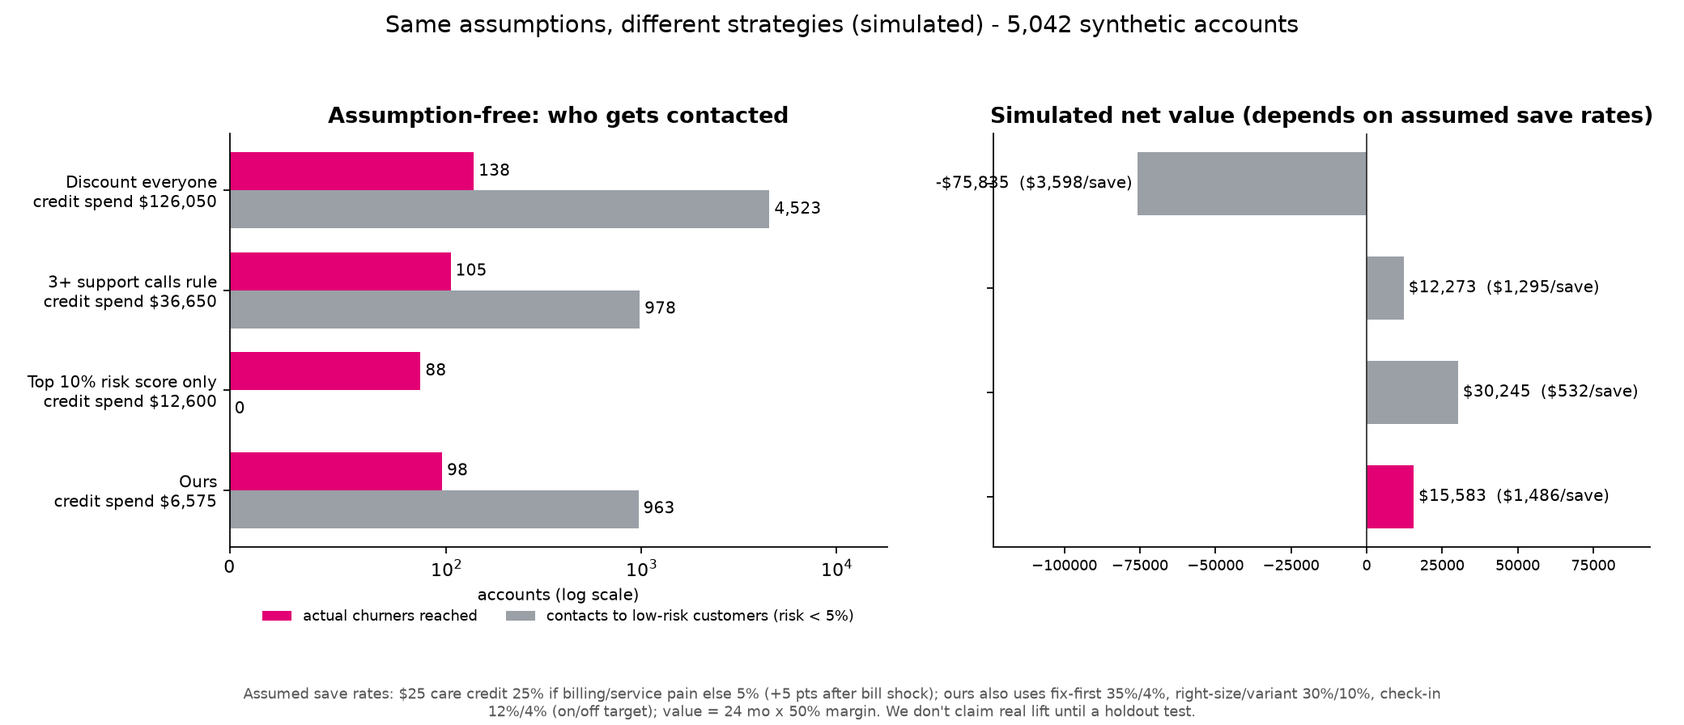
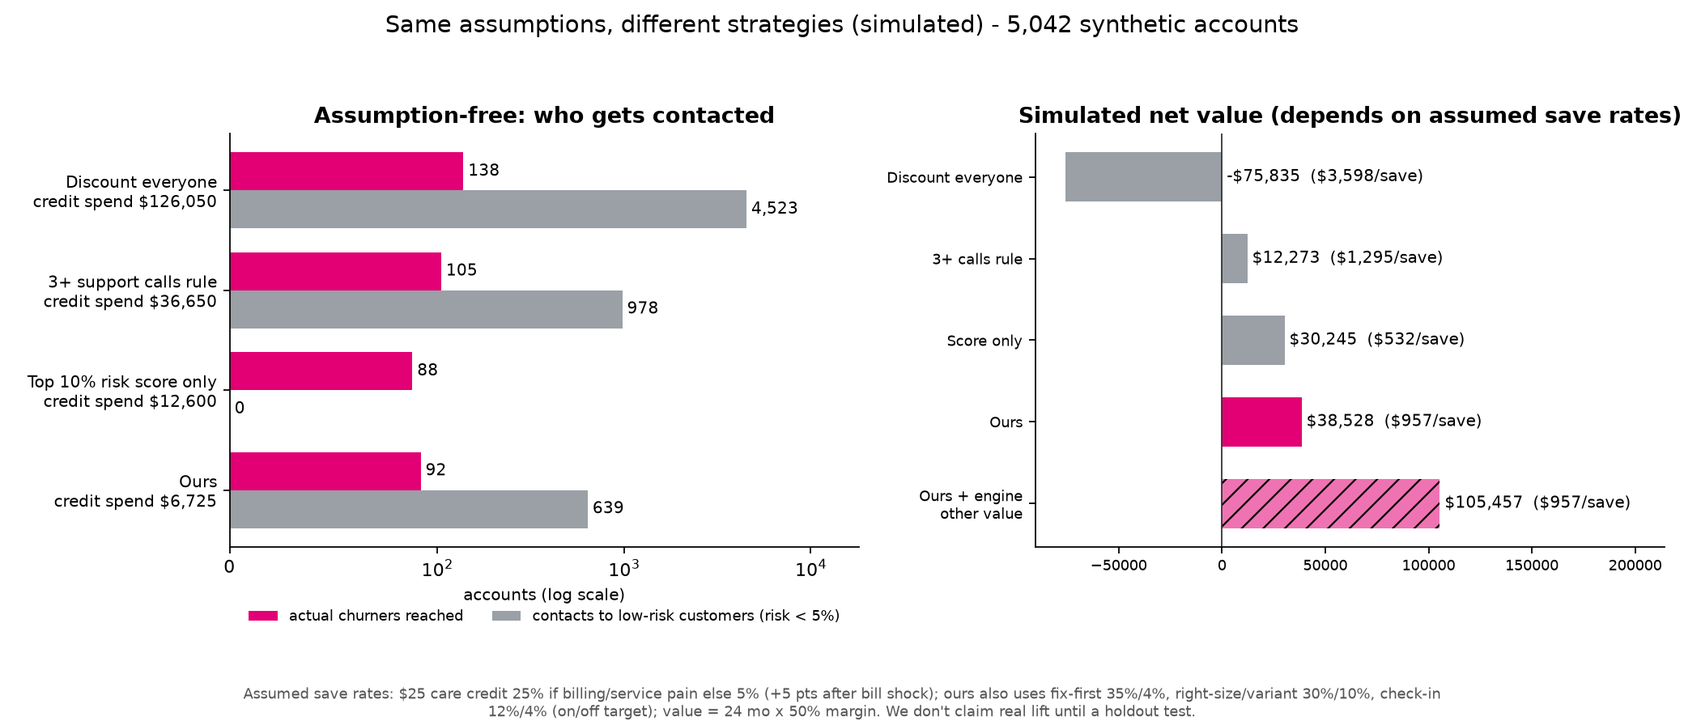
compare_strategies: input dir defaults to demo_data/ (same 7:59 run as demo_data/offers.csv; --input-dir / TM_OUT_DIR override) with mid-run-safe snapshot + mtime recorded; --save-scale and x1/x0.5/x0.25 sensitivity sweep (comparison_sensitivity.csv); 5b row incl. engine other value; regenerated dem

diff --git a/harness/compare_strategies.py b/harness/compare_strategies.py
@@ -35,22 +35,61 @@ import pandas as pd
 
 HERE = Path(__file__).resolve().parent
 ROOT = HERE.parent
-OUT = Path(os.environ.get("TM_OUT_DIR", HERE / "out"))
+OUT = HERE / "out"   # outputs (git-ignored); inputs come from IN_DIR
 DEMO = ROOT / "demo_data"
 sys.path.insert(0, str(HERE))
 
 NOTE = "SYNTHETIC/SIMULATED"
 
 
+IN_DIR: Path | None = None   # set in main(): --input-dir > TM_OUT_DIR > demo_data/ (if it has offers.csv) > harness/out
+SNAP: dict = {}              # offers/candidates snapshot paths + mtimes actually used
+
+
+def resolve_input_dir(cli: str | None) -> Path:
+    if cli:
+        return Path(cli).resolve()
+    if os.environ.get("TM_OUT_DIR"):
+        return Path(os.environ["TM_OUT_DIR"]).resolve()
+    if (DEMO / "offers.csv").exists():
+        return DEMO
+    return HERE / "out"
+
+
 def find(name: str) -> Path:
-    for d in (OUT, DEMO):
+    if name in SNAP:
+        return SNAP[name]["snapshot"]
+    dirs = [IN_DIR] if IN_DIR is not None else []
+    dirs += [d for d in (OUT, DEMO) if d not in dirs]
+    for d in dirs:
         for n in (name, name + ".gz"):
             if (d / n).exists():
                 return d / n
     raise FileNotFoundError(f"{name} not found in {OUT} or {DEMO}")
 
 
+def snapshot_offers():
+    """Copy offers.csv + offer_candidates.csv(.gz) from IN_DIR to a temp dir, refusing a pair that changed mid-copy,
+    so a concurrent tm-offers rerun can't mix runs. Records path + mtime for COMPARISON.md."""
+    import tempfile
+    tmp = Path(tempfile.mkdtemp(prefix="cmp_snap_"))
+    for name in ("offers.csv", "offer_candidates.csv"):
+        src = next((IN_DIR / n for n in (name, name + ".gz") if (IN_DIR / n).exists()), None)
+        if src is None:
+            raise FileNotFoundError(f"{name}(.gz) not in input dir {IN_DIR}")
+        m0 = src.stat().st_mtime
+        dst = tmp / src.name
+        shutil.copy2(src, dst)
+        if src.stat().st_mtime != m0:
+            raise RuntimeError(f"{src} changed while copying; re-run when tm-offers' write finishes")
+        SNAP[name] = {"source": src, "snapshot": dst, "mtime": m0}
+    a, b = SNAP["offers.csv"]["mtime"], SNAP["offer_candidates.csv"]["mtime"]
+    if abs(a - b) > 600:
+        print(f"WARNING: offers.csv and offer_candidates.csv mtimes differ by {abs(a-b)/60:.0f} min (different runs?)")
+
+
 def load_inputs():
+    snapshot_offers()
     offers = pd.read_csv(find("offers.csv"))
     cands = pd.read_csv(find("offer_candidates.csv"))
     feats = pd.read_csv(find("features.csv"))
@@ -114,7 +153,20 @@ def topk_capture(y, s, frac=0.10, seed=2026) -> float:
     return float(y[order[:k]].sum() / y.sum())
 
 
-def main():
+def main(argv=None):
+    import argparse
+    global IN_DIR
+    ap = argparse.ArgumentParser(description="Strategy comparison (SYNTHETIC)")
+    ap.add_argument("--input-dir", default=None, help="dir with offers.csv + offer_candidates.csv(.gz) and the other "
+                    "inputs (default: TM_OUT_DIR, else demo_data/ if it has offers.csv, else harness/out)")
+    ap.add_argument("--save-scale", type=float, default=1.0, help="multiply ALL save rates (every strategy) by this "
+                    "factor for the main table (default 1.0)")
+    ap.add_argument("--sweep", default="1.0,0.5,0.25", help="save-rate scales for the sensitivity table")
+    args = ap.parse_args(argv)
+    IN_DIR = resolve_input_dir(args.input_dir)
+    scale = args.save_scale
+    sweep = [float(x) for x in args.sweep.split(",") if x.strip()]
+    print(f"input dir: {IN_DIR}")
     import offers as eng_cfg_mod  # only to read CONFIG; same assumptions as the engine
     C = eng_cfg_mod.CONFIG
     offers, cands, feats, labels, oof = load_inputs()
@@ -180,20 +232,39 @@ def main():
                      - (contact & (base.action_code == "care_credit_fix_first")).sum() * C["FIX_FIRST_CALLBACK_COST"],
                      expected_saves_true_p=(ptrue * sr)[contact].sum(),
                      saved_margin_true_p_usd=(ptrue * sr * val)[contact].sum(), other_ev_usd=other))
-    t = pd.DataFrame(rows)
-    t["cost_per_save_usd"] = np.where(t.expected_saves > 0, t.offer_cost_usd / t.expected_saves.replace(0, np.nan), np.nan)
-    t["net_value_usd"] = t.saved_margin_usd - t.offer_cost_usd - t.contact_cost_usd
-    t["net_value_true_p_usd"] = t.saved_margin_true_p_usd - t.offer_cost_usd - t.contact_cost_usd
-    t["cost_per_save_true_p_usd"] = np.where(t.expected_saves_true_p > 0,
-                                             t.offer_cost_usd / t.expected_saves_true_p.replace(0, np.nan), np.nan)
-    t["contacts_to_low_risk_share"] = np.where(t.contacted > 0, t.contacts_to_low_risk / t.contacted.replace(0, np.nan), np.nan)
-    t["data_note"] = NOTE
-    t["churners_reached_share"] = t.churners_reached / max(1, int(base.churn_90d.fillna(0).sum()))
-    cols = ["strategy", "description", "contacted", "contacts_to_low_risk", "contacts_to_low_risk_share", "credit_spend_usd",
-            "churners_reached", "churners_reached_share", "expected_saves", "offer_cost_usd", "cost_per_save_usd",
-            "contact_cost_usd", "saved_margin_usd", "net_value_usd",
-            "expected_saves_true_p", "cost_per_save_true_p_usd", "net_value_true_p_usd", "other_ev_usd", "data_note"]
-    t = t[cols].round(2)
+    o5 = dict(rows[-1]); o5.update(strategy="5b. Ours (incl. engine other value)",
+                                   description="same picks as 5; net value ALSO counts the engine's own upsell margin, "
+                                               "lock-in and customer-benefit credit (other_ev_usd)", include_other=True)
+    rows.append(o5)
+    raw = pd.DataFrame(rows)
+    raw["include_other"] = raw.get("include_other", False)
+    raw["include_other"] = raw["include_other"].fillna(False).astype(bool)
+    n_churn_all = max(1, int(base.churn_90d.fillna(0).sum()))
+
+    def finalize(raw: pd.DataFrame, sc: float) -> pd.DataFrame:
+        """Scale ALL save rates by sc (saves and saved margin are linear in save rate; costs are not)."""
+        t = raw.copy()
+        for c in ("expected_saves", "saved_margin_usd", "expected_saves_true_p", "saved_margin_true_p_usd"):
+            t[c] = t[c] * sc
+        oth = np.where(t.include_other, t.other_ev_usd, 0.0)
+        t["save_scale"] = sc
+        t["cost_per_save_usd"] = t.offer_cost_usd / t.expected_saves.replace(0, np.nan)
+        t["net_value_usd"] = t.saved_margin_usd - t.offer_cost_usd - t.contact_cost_usd + oth
+        t["net_value_true_p_usd"] = t.saved_margin_true_p_usd - t.offer_cost_usd - t.contact_cost_usd + oth
+        t["cost_per_save_true_p_usd"] = t.offer_cost_usd / t.expected_saves_true_p.replace(0, np.nan)
+        t["contacts_to_low_risk_share"] = t.contacts_to_low_risk / t.contacted.replace(0, np.nan)
+        t["churners_reached_share"] = t.churners_reached / n_churn_all
+        t["data_note"] = NOTE
+        cols = ["strategy", "description", "save_scale", "contacted", "contacts_to_low_risk",
+                "contacts_to_low_risk_share", "credit_spend_usd", "churners_reached", "churners_reached_share",
+                "expected_saves", "offer_cost_usd", "cost_per_save_usd", "contact_cost_usd", "saved_margin_usd",
+                "net_value_usd", "expected_saves_true_p", "cost_per_save_true_p_usd", "net_value_true_p_usd",
+                "other_ev_usd", "include_other", "data_note"]
+        return t[cols].round(2)
+
+    t = finalize(raw, scale)
+    sens = pd.concat([finalize(raw, sc) for sc in sweep], ignore_index=True)
+    sens = sens[["save_scale", "strategy", "expected_saves", "cost_per_save_usd", "net_value_usd", "data_note"]]
 
     # ours: contacts by type for the low-risk bucket (most are money-saving moves, not credits)
     ours_low = base[contact & (p < low_risk)].action_code.value_counts()
@@ -219,6 +290,7 @@ def main():
 
     OUT.mkdir(parents=True, exist_ok=True)
     t.to_csv(OUT / "comparison.csv", index=False)
+    sens.round(2).to_csv(OUT / "comparison_sensitivity.csv", index=False)
     lift.to_csv(OUT / "comparison_lift.csv", index=False)
 
     # ---- markdown
@@ -258,11 +330,13 @@ def main():
           f"{low_risk:.0%}. Churners reached = contacted accounts that churned in the simulated labels ({n_churn} total).", "",
           "| strategy | contacted | contacts to low-risk customers (risk < 5%) | credit / discount spend | actual churners reached |",
           "|---|---:|---:|---:|---:|"]
-    for _, x in t.iterrows():
+    for _, x in t[~t.include_other].iterrows():
         md.append(f"| {x.strategy} | {x.contacted:,} | {x.contacts_to_low_risk:,} ({0 if pd.isna(x.contacts_to_low_risk_share) else x.contacts_to_low_risk_share:.0%}) | "
                   f"{money(x.credit_spend_usd)} | {x.churners_reached} ({x.churners_reached_share:.0%}) |")
-    md += ["", "## 2. Simulated value (depends on assumed save rates)", "",
-           f"Assumed save rates (engine CONFIG, illustrative): $25 care credit {sr_txt}. Same for every strategy.", "",
+    md += ["", "## 2. Simulated value (depends on assumed save rates)" + (f" - save rates x{scale:g}" if scale != 1 else ""), "",
+           f"Assumed save rates (engine CONFIG, illustrative): $25 care credit {sr_txt}. Same for every strategy. "
+           "Row 5b uses the same picks as 5 but its net value also counts the engine's own upsell margin, lock-in and "
+           f"customer-benefit credit ({money(ours.other_ev_usd)}), which the baselines don't get; 5 is the like-for-like row.", "",
            "| strategy | expected saves | offer cost | cost per save | net expected value |",
            "|---|---:|---:|---:|---:|"]
     for _, x in t.iterrows():
@@ -273,9 +347,28 @@ def main():
     for _, x in t.iterrows():
         md.append(f"| {x.strategy} | {x.expected_saves_true_p:.1f} | {money(x.cost_per_save_true_p_usd)} | "
                   f"{money(x.net_value_true_p_usd)} |")
-    md += ["", f"Ours also carries {money(ours.other_ev_usd)} of non-retention EV (upsell margin, lock-in value and "
-           "customer-savings trust value) that is **not** included in net value above, to keep the comparison "
-           "like-for-like.", "",
+    # ---- sensitivity: all save rates x scale
+    md += ["", "## 3. Sensitivity: what if every save rate is lower? (all strategies, same factor)", "",
+           "| save-rate scale | " + " | ".join(x.split(". ", 1)[1] for x in t.strategy if not x.startswith("1.")) + " |",
+           "|---|" + "---:|" * (len(t) - 1)]
+    for sc in sweep:
+        S = sens[sens.save_scale == sc].set_index("strategy")
+        md.append(f"| x{sc:g} net value | " + " | ".join(money(S.loc[x, "net_value_usd"]) for x in t.strategy if not x.startswith("1.")) + " |")
+        md.append(f"| x{sc:g} saves | " + " | ".join(f"{S.loc[x, 'expected_saves']:.1f}" for x in t.strategy if not x.startswith("1.") ) + " |")
+    md += ["", "Does Ours beat each baseline? (net value / saves)", ""]
+    sens_lines = []
+    for o in ("5. Ours (Model A + EV engine)", "5b. Ours (incl. engine other value)"):
+        for sc in sweep:
+            S = sens[sens.save_scale == sc].set_index("strategy")
+            bits = []
+            for bname in ("1. Do nothing", "2. Discount everyone", "3. 3+ support calls rule", "4. Top 10% risk score only"):
+                nv = "yes" if S.loc[o, "net_value_usd"] > S.loc[bname, "net_value_usd"] else "NO"
+                sv = "yes" if S.loc[o, "expected_saves"] > S.loc[bname, "expected_saves"] else "NO"
+                bits.append(f"{bname.split('. ',1)[1]}: net {nv}, saves {sv}")
+            line = f"- **{o.split('. ',1)[1]}, save rates x{sc:g}:** " + "; ".join(bits) + "."
+            md.append(line); sens_lines.append(line)
+    md += ["", "Saves and saved margin scale linearly with the save rate; offer and contact costs don't, so lower save "
+           "rates hurt the strategies that spend the most per contact first. Full table: comparison_sensitivity.csv.", "",
            f"Ours' {int(ours.contacts_to_low_risk)} low-risk contacts by action: " +
            ", ".join(f"{k} {v}" for k, v in ours_low.items()) + ". None are credits (the engine blocks credits below 5% risk); "
            "upsells (step_up/family_upgrade/home_internet_bundle) are the ones a judge could question.", "",
@@ -303,7 +396,15 @@ def main():
            "- Partly circular: ours is scored with the same assumptions it optimizes. The truth-check table and "
            "harness/out/policy_eval.csv (simulated 50k randomized trial) are the less-circular views.",
            "- Model A scores are in-sample for the strategy table; lift uses out-of-fold scores.",
-           "", f"Source: offers.csv rows {len(offers):,}; regenerate with `python3 harness/compare_strategies.py`."]
+           "", "## Inputs used", "",
+           f"- Input dir: `{IN_DIR.relative_to(ROOT) if IN_DIR.is_relative_to(ROOT) else IN_DIR}`",
+           f"- offers.csv: `{SNAP['offers.csv']['source'].relative_to(ROOT) if SNAP['offers.csv']['source'].is_relative_to(ROOT) else SNAP['offers.csv']['source']}`, "
+           f"mtime {pd.Timestamp(SNAP['offers.csv']['mtime'], unit='s', tz='UTC').tz_convert('America/Los_Angeles'):%Y-%m-%d %H:%M:%S %Z}, {len(offers):,} rows",
+           f"- offer_candidates: `{SNAP['offer_candidates.csv']['source'].relative_to(ROOT) if SNAP['offer_candidates.csv']['source'].is_relative_to(ROOT) else SNAP['offer_candidates.csv']['source']}`, "
+           f"mtime {pd.Timestamp(SNAP['offer_candidates.csv']['mtime'], unit='s', tz='UTC').tz_convert('America/Los_Angeles'):%Y-%m-%d %H:%M:%S %Z}",
+           "- Both were copied to a private snapshot before reading, so a concurrent tm-offers rerun can't mix runs.",
+           f"- Main-table save-rate scale: x{scale:g}; sweep: {', '.join(f'x{x:g}' for x in sweep)}",
+           "- Regenerate: `python3 harness/compare_strategies.py` (options: --input-dir, --save-scale, --sweep; env TM_OUT_DIR)."]
     pe = OUT / "policy_eval.csv"
     if pe.exists():
         P = pd.read_csv(pe)
@@ -317,11 +418,13 @@ def main():
 
     chart(t, sr_txt)
     DEMO.mkdir(exist_ok=True)
-    for f in ("comparison.csv", "COMPARISON.md", "comparison_lift.csv"):
+    for f in ("comparison.csv", "COMPARISON.md", "comparison_lift.csv", "comparison_sensitivity.csv"):
         shutil.copy(OUT / f, DEMO / f)
     print("\n".join(headline))
     print(t[["strategy", "contacted", "contacts_to_low_risk", "credit_spend_usd", "churners_reached", "expected_saves", "offer_cost_usd", "cost_per_save_usd", "net_value_usd"]].to_string(index=False))
     print(lift.to_string(index=False))
+    print(sens.to_string(index=False))
+    print("\n".join(sens_lines))
     print(f"wrote {OUT/'comparison.csv'}, {OUT/'COMPARISON.md'}, {DEMO/'comparison_chart.png'}. ALL NUMBERS SYNTHETIC.")
 
 
@@ -330,7 +433,8 @@ def chart(t: pd.DataFrame, sr_txt: str):
     import matplotlib
     matplotlib.use("Agg")
     import matplotlib.pyplot as plt
-    d = t[t.contacted > 0].copy()
+    dall = t[t.contacted > 0].copy()
+    d = dall[~dall.include_other].copy()
     labels = [s.split(". ", 1)[1].replace(" (Model A + EV engine)", "") for s in d.strategy]
     y = np.arange(len(d))
     pink, grey, dark = "#E20074", "#9AA0A6", "#555555"
@@ -348,16 +452,21 @@ def chart(t: pd.DataFrame, sr_txt: str):
     a1.set_title("Assumption-free: who gets contacted", fontsize=12, weight="bold")
     a1.legend(loc="upper center", bbox_to_anchor=(0.5, -0.12), ncol=2, fontsize=8, frameon=False)
     a1.set_xlabel("accounts (log scale)", fontsize=9)
-    v = d.net_value_usd.values
-    cols = [pink if s.startswith("5.") else grey for s in d.strategy]
-    bars = a2.barh(y, v, 0.6, color=cols)
-    a2.invert_yaxis(); a2.axvline(0, color="#333", lw=0.8); a2.set_yticks(y, [""] * len(y))
-    for b, x, cps in zip(bars, v, d.cost_per_save_usd):
+    v = dall.net_value_usd.values
+    y2 = np.arange(len(dall))
+    cols = [pink if s.startswith("5") else grey for s in dall.strategy]
+    bars = a2.barh(y2, v, 0.6, color=cols)
+    if dall.include_other.any():
+        bars[len(dall) - 1].set_hatch("//"); bars[len(dall) - 1].set_alpha(0.55)
+    short = {"2": "Discount everyone", "3": "3+ calls rule", "4": "Score only", "5.": "Ours", "5b": "Ours + engine\nother value"}
+    a2.invert_yaxis(); a2.axvline(0, color="#333", lw=0.8)
+    a2.set_yticks(y2, [next(v_ for k, v_ in short.items() if s_.startswith(k)) for s_ in dall.strategy], fontsize=8)
+    for b, x, cps in zip(bars, v, dall.cost_per_save_usd):
         s = f"-\\${-x:,.0f}" if x < 0 else f"\\${x:,.0f}"
-        a2.text(x, b.get_y() + b.get_height() / 2, f" {s}  (\\${cps:,.0f}/save) ", va="center",
-                ha="left" if x >= 0 else "right", fontsize=9)
+        a2.text(max(x, 0), b.get_y() + b.get_height() / 2, f" {s}  (\\${cps:,.0f}/save) ", va="center",
+                ha="left", fontsize=9)
     lo, hi = min(0, v.min()), max(0, v.max())
-    a2.set_xlim(lo - (hi - lo) * 0.45 * (lo < 0), hi + (hi - lo) * 0.6)
+    a2.set_xlim(lo - (hi - lo) * 0.08 * (lo < 0), hi + (hi - lo) * 0.6)
     a2.set_title("Simulated net value (depends on assumed save rates)", fontsize=12, weight="bold")
     a2.tick_params(axis="x", labelsize=8)
     for ax in (a1, a2):

diff --git a/demo_data/COMPARISON.md b/demo_data/COMPARISON.md
@@ -4,9 +4,9 @@
 
 ## Headline
 
-- Ours makes 963 contacts to low-risk customers (no credits: fix-first callbacks, money-saving plan moves, check-ins and usage-based upsells) vs 4,523 for discounting everyone and 978 for the 3+ calls rule, and spends $6,575 on credits vs $126,050 for discounting everyone.
-- Ours reaches 98 of the 138 customers who actually churned in the simulation (71%) with 1,452 contacts; the 3+ calls rule reaches 105 with 1,466, score-only 88 with 504.
-- Depends on assumed save rates: ~43 expected saves at $1,486 per save, 59% cheaper per save than a $25 credit to everyone, net $15,583 vs -$75,835.
+- Ours makes 639 contacts to low-risk customers (no credits: fix-first callbacks, money-saving plan moves, check-ins and usage-based upsells) vs 4,523 for discounting everyone and 978 for the 3+ calls rule, and spends $6,725 on credits vs $126,050 for discounting everyone.
+- Ours reaches 92 of the 138 customers who actually churned in the simulation (67%) with 1,123 contacts; the 3+ calls rule reaches 105 with 1,466, score-only 88 with 504.
+- Depends on assumed save rates: ~42 expected saves at $957 per save, 73% cheaper per save than a $25 credit to everyone, net $38,528 vs -$75,835.
 - Model A puts 62% of actual churners in its top 10% (out-of-fold), vs 54% for ranking by support calls and 10% at random (AUC 0.85 vs 0.83).
 
 ## 1. Assumption-free metrics (5,042 synthetic accounts)
@@ -19,11 +19,11 @@ These depend only on who each strategy contacts: no assumed save rates. Low risk
 | 2. Discount everyone | 5,042 | 4,523 (90%) | $126,050 | 138 (100%) |
 | 3. 3+ support calls rule | 1,466 | 978 (67%) | $36,650 | 105 (76%) |
 | 4. Top 10% risk score only | 504 | 0 (0%) | $12,600 | 88 (64%) |
-| 5. Ours (Model A + EV engine) | 1,452 | 963 (66%) | $6,575 | 98 (71%) |
+| 5. Ours (Model A + EV engine) | 1,123 | 639 (57%) | $6,725 | 92 (67%) |
 
 ## 2. Simulated value (depends on assumed save rates)
 
-Assumed save rates (engine CONFIG, illustrative): $25 care credit 25% if billing/service pain else 5% (+5 pts after bill shock); ours also uses fix-first 35%/4%, right-size/variant 30%/10%, check-in 12%/4% (on/off target); value = 24 mo x 50% margin. Same for every strategy.
+Assumed save rates (engine CONFIG, illustrative): $25 care credit 25% if billing/service pain else 5% (+5 pts after bill shock); ours also uses fix-first 35%/4%, right-size/variant 30%/10%, check-in 12%/4% (on/off target); value = 24 mo x 50% margin. Same for every strategy. Row 5b uses the same picks as 5 but its net value also counts the engine's own upsell margin, lock-in and customer-benefit credit ($66,929), which the baselines don't get; 5 is the like-for-like row.
 
 | strategy | expected saves | offer cost | cost per save | net expected value |
 |---|---:|---:|---:|---:|
@@ -31,7 +31,8 @@ Assumed save rates (engine CONFIG, illustrative): $25 care credit 25% if billing
 | 2. Discount everyone | 35.0 | $126,050 | $3,598 | -$75,835 |
 | 3. 3+ support calls rule | 28.3 | $36,650 | $1,295 | $12,273 |
 | 4. Top 10% risk score only | 23.7 | $12,600 | $532 | $30,245 |
-| 5. Ours (Model A + EV engine) | 43.2 | $64,183 | $1,486 | $15,583 |
+| 5. Ours (Model A + EV engine) | 41.8 | $39,992 | $957 | $38,528 |
+| 5b. Ours (incl. engine other value) | 41.8 | $39,992 | $957 | $105,457 |
 
 ### Truth check (still depends on assumed save rates): same picks, saves re-scored with the hidden simulated churn probability
 
@@ -41,11 +42,32 @@ Assumed save rates (engine CONFIG, illustrative): $25 care credit 25% if billing
 | 2. Discount everyone | 34.8 | $3,622 | -$75,557 |
 | 3. 3+ support calls rule | 27.8 | $1,316 | $11,954 |
 | 4. Top 10% risk score only | 22.9 | $549 | $29,350 |
-| 5. Ours (Model A + EV engine) | 42.3 | $1,518 | $14,707 |
+| 5. Ours (Model A + EV engine) | 40.8 | $981 | $37,480 |
+| 5b. Ours (incl. engine other value) | 40.8 | $981 | $104,409 |
 
-Ours also carries $72,620 of non-retention EV (upsell margin, lock-in value and customer-savings trust value) that is **not** included in net value above, to keep the comparison like-for-like.
+## 3. Sensitivity: what if every save rate is lower? (all strategies, same factor)
 
-Ours' 963 low-risk contacts by action: right_size 433, fix_first 218, check_in 121, variant_switch 90, step_up 52, family_upgrade 46, home_internet_bundle 3. None are credits (the engine blocks credits below 5% risk); upsells (step_up/family_upgrade/home_internet_bundle) are the ones a judge could question.
+| save-rate scale | Discount everyone | 3+ support calls rule | Top 10% risk score only | Ours (Model A + EV engine) | Ours (incl. engine other value) |
+|---|---:|---:|---:|---:|---:|
+| x1 net value | -$75,835 | $12,273 | $30,245 | $38,528 | $105,457 |
+| x1 saves | 35.0 | 28.3 | 23.7 | 41.8 | 41.8 |
+| x0.5 net value | -$108,506 | -$14,388 | $8,067 | -$2,894 | $64,036 |
+| x0.5 saves | 17.5 | 14.2 | 11.8 | 20.9 | 20.9 |
+| x0.25 net value | -$124,841 | -$27,718 | -$3,023 | -$23,604 | $43,325 |
+| x0.25 saves | 8.8 | 7.1 | 5.9 | 10.4 | 10.4 |
+
+Does Ours beat each baseline? (net value / saves)
+
+- **Ours (Model A + EV engine), save rates x1:** Do nothing: net yes, saves yes; Discount everyone: net yes, saves yes; 3+ support calls rule: net yes, saves yes; Top 10% risk score only: net yes, saves yes.
+- **Ours (Model A + EV engine), save rates x0.5:** Do nothing: net NO, saves yes; Discount everyone: net yes, saves yes; 3+ support calls rule: net yes, saves yes; Top 10% risk score only: net NO, saves yes.
+- **Ours (Model A + EV engine), save rates x0.25:** Do nothing: net NO, saves yes; Discount everyone: net yes, saves yes; 3+ support calls rule: net yes, saves yes; Top 10% risk score only: net NO, saves yes.
+- **Ours (incl. engine other value), save rates x1:** Do nothing: net yes, saves yes; Discount everyone: net yes, saves yes; 3+ support calls rule: net yes, saves yes; Top 10% risk score only: net yes, saves yes.
+- **Ours (incl. engine other value), save rates x0.5:** Do nothing: net yes, saves yes; Discount everyone: net yes, saves yes; 3+ support calls rule: net yes, saves yes; Top 10% risk score only: net yes, saves yes.
+- **Ours (incl. engine other value), save rates x0.25:** Do nothing: net yes, saves yes; Discount everyone: net yes, saves yes; 3+ support calls rule: net yes, saves yes; Top 10% risk score only: net yes, saves yes.
+
+Saves and saved margin scale linearly with the save rate; offer and contact costs don't, so lower save rates hurt the strategies that spend the most per contact first. Full table: comparison_sensitivity.csv.
+
+Ours' 639 low-risk contacts by action: fix_first 198, step_up 152, right_size 112, variant_switch 90, check_in 67, family_upgrade 17, home_internet_bundle 3. None are credits (the engine blocks credits below 5% risk); upsells (step_up/family_upgrade/home_internet_bundle) are the ones a judge could question.
 
 ## Churn model lift (out-of-fold, 5-fold CV)
 
@@ -76,16 +98,23 @@ The literal 3+ calls rule flags 1,462 accounts (29%) and catches 77% of churners
 - Partly circular: ours is scored with the same assumptions it optimizes. The truth-check table and harness/out/policy_eval.csv (simulated 50k randomized trial) are the less-circular views.
 - Model A scores are in-sample for the strategy table; lift uses out-of-fold scores.
 
-Source: offers.csv rows 5,042; regenerate with `python3 harness/compare_strategies.py`.
+## Inputs used
+
+- Input dir: `demo_data`
+- offers.csv: `demo_data/offers.csv`, mtime 2026-10-17 19:59:15 PDT, 5,042 rows
+- offer_candidates: `demo_data/offer_candidates.csv.gz`, mtime 2026-10-17 20:07:01 PDT
+- Both were copied to a private snapshot before reading, so a concurrent tm-offers rerun can't mix runs.
+- Main-table save-rate scale: x1; sweep: x1, x0.5, x0.25
+- Regenerate: `python3 harness/compare_strategies.py` (options: --input-dir, --save-scale, --sweep; env TM_OUT_DIR).
 
 ## Cross-check: simulated 50k randomized trial (tm-offers' policy_eval.csv, test split, DR estimate)
 
 | policy | contacted | churners saved | offer cost | cost per save | net value (no upsell) |
 |---|---:|---:|---:|---:|---:|
 | do nothing | 0 | 0.0 | $0 | n/a | $0 |
-| random (eligible arm) | 5,887 | 77.0 | $118,233 | $1,534 | $25,117 |
-| 3+ calls rule -> $25 care credit | 841 | 32.7 | $21,025 | $643 | $17,230 |
-| offer to everyone (best eligible offer) | 10,660 | 123.8 | $205,635 | $1,660 | $21,289 |
-| Model B EV chooser | 3,309 | 113.5 | $118,266 | $1,042 | $108,364 |
-| Model C uplift policy | 3,197 | 93.0 | $50,546 | $544 | $116,590 |
-| oracle (true effects; reference only) | 3,209 | 130.0 | $53,936 | $415 | $200,980 |
+| random (eligible arm) | 6,250 | 63.2 | $147,341 | $2,333 | -$40,677 |
+| 3+ calls rule -> $25 care credit | 841 | 31.6 | $21,025 | $666 | $16,580 |
+| offer to everyone (best eligible offer) | 11,241 | 117.8 | $276,429 | $2,347 | -$67,127 |
+| Model B EV chooser | 4,324 | 116.5 | $187,877 | $1,613 | $33,185 |
+| Model C uplift policy | 2,828 | 96.8 | $42,046 | $434 | $140,970 |
+| oracle (true effects; reference only) | 3,065 | 123.4 | $47,207 | $382 | $195,118 |
